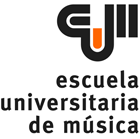
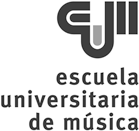
modified:   compilar_web.sh 	modified:   images/eum.png 	modified:   images/fing.png 	new file:   images/gpa.png 	new file:   images/header1.jpg 	new file:   images/header2.jpg 	new file:   images/header3.jpg 	new file:   images/header4.jpg 	new file:   images/header5.jpg 	new file:   images/header6

diff --git a/src/footer.html b/src/footer.html
@@ -5,12 +5,16 @@
 		<ul>
 			<li>
 				<center>
-				<table cellspacing="0" cellpadding="2" width="263" border="0"> <tbody> 
+				<table cellspacing="0" cellpadding="2" width="200" border="0" align="center"> <tbody> 
 				<tr>
+		<!--
 				<td valign="middle" width="70"> <a href="http://iie.fing.edu.uy" target="blank"><img src="images/iie.png" alt="Instituto de Ingeniería Eléctrica" width="70"/></a></td>
-				<td valign="middle" width="50"> <a href="http://www.fing.edu.uy" target="blank"><img src="images/fing.png" alt="Facultad de Ingeniería" width="50"/></a></td>
-				<td valign="middle" width="65"> <a href="http://www.eumus.edu.uy/" target="blank"><img src="images/eum.png" alt="Escuela Universitaria de Música" width="50"/></a></td>
+		-->
+				<td valign="middle" width="80"> <a href="http://www.fing.edu.uy" target="blank"><img src="images/fing.png" alt="Facultad de Ingeniería" width="80"/></a></td>
+				<td valign="middle" width="80"> <a href="http://www.eumus.edu.uy/" target="blank"><img src="images/eum.png" alt="Escuela Universitaria de Música" width="80"/></a></td>
+		<!--
 				<td valign="middle" width="46"> <a href="http://www.universidad.edu.uy/" target="blank"><img src="images/udelar.png" alt="Universidad de la República" width="46"/></a></td>
+		-->
 				</tr>
 				</tbody></table>
 				</center>
@@ -34,7 +38,7 @@
 </div>
 <!-- end page -->
 <div id="footer">
-	<p class="legal">Copyright (c) 2007 Website Name. All rights reserved.</p>
+	<p class="legal">Copyright (c) 2011 Audio Processing Group (FING|EUM). All rights reserved.</p>
 	<p class="credit">Designed by <a href="http://www.nodethirtythree.com/">NodeThirtyThree</a> + <a href="http://www.freecsstemplates.org/">Free CSS Templates</a></p><br>
 	<p class="credit">Free JavaScripts provided by <a href="http://javascriptsource.com">The JavaScript Source</a></p>
 </div>

diff --git a/src/header.html b/src/header.html
@@ -65,16 +65,28 @@ Released   : 20071108
 </head>
 <body>
 <div id="logo">
-	<h1><a href="#">gpa:: grupo de procesamiento de audio</a></h1>
-	<h2>última actualización: <script type="text/javascript">document.write(new Date(document.lastModified).toLocaleString())</script></h2>
+<!--
+	<h1><a href="index.html">gpa:: grupo de procesamiento de audio</a></h1>
+-->
+	<!-- <h2>última actualización: <script type="text/javascript">document.write(new Date(document.lastModified).toLocaleString())</script></h2> -->
+<!--	
+	<h2> (logo udelar) </h2>
+-->
+	<table cellspacing="0" cellpadding="2" width="870" border="0" align="center"> <tbody> 
+		<tr>
+		<td align="left" valign="middle" width="373"> <a href="index.html" target="blank"><img src="images/gpa.png" alt="Grupo de Procesamiento de Audio" width="373"/></a></td>
+		<td align="right" valign="right" width="226"> <a href="http://www.universidad.edu.uy" target="blank"><img src="images/udelar_gray.png" alt="Universidad de la República" width="226"/></a></td>
+		</tr>
+	</tbody></table>
+
 </div>
 <div id="menu">
 	<ul>
 		<li class="first"><a href="index.html" accesskey="1" title="">Inicio</a></li>
 		<li><a href="integrantes.html" accesskey="2" title="">Integrantes</a></li>
 		<li><a href="investigacion.html" accesskey="3" title="">Investigación</a></li>
+		<li><a href="publicaciones.html" accesskey="3" title="">Publicaciones</a></li>
 		<li><a href="blog.html" accesskey="4" title="">Blog</a></li>
-		<li><a href="links.html" accesskey="5" title="">Links</a></li>
 		<li><a href="contacto.html" accesskey="6" title="">Contacto</a></li>
 	</ul>
 	<div id="search">

diff --git a/style.css b/style.css
@@ -7,7 +7,7 @@ Released for free under a Creative Commons Attribution 2.5 License
 
 * {
 	margin: 0;
-	padding: 0;
+	padding: 0px;
 }
 
 body {
@@ -38,7 +38,8 @@ h1, h1 a, h2, h2 a {
 }
 
 h1 a:hover, h2 a:hover {
-	text-decoration: underline;
+	/*text-decoration: underline;*/
+	text-decoration: none;
 }
 
 h1 {
@@ -70,7 +71,10 @@ blockquote {
 }
 
 a {
-	color: #346086;
+	/*color: #346086;*/
+	color: #6E6E6E;
+	text-decoration: none;
+	font-weight: bold;
 }
 
 a:hover {
@@ -99,8 +103,9 @@ hr {
 
 #logo {
 	width: 870px;
-	height: 135px;
+	height: 90px;
 	margin: 0 auto;
+	padding-top: 10px;
 }
 
 #logo h1, #logo h2 {
@@ -109,13 +114,13 @@ hr {
 
 #logo h1 {
 	float: left;
-	padding-top: 80px;
+	padding-top: 10px;
 	font-size: 30px;
 }
 
 #logo h2 {
 	float: right;
-	padding-top: 95px;
+	padding-top: 15px;
 	font-size: 12px;
 	font-weight: normal;
 }
@@ -200,7 +205,7 @@ hr {
 #page {
 	width: 900px;
 	margin: 0 auto;
-	padding: 45px 35px 45px 25px;
+	padding: 20px 35px 45px 25px;
 	background: url(images/img05.gif) no-repeat;
 }
 

diff --git a/src/blog.html b/src/blog.html
@@ -1,4 +1,4 @@
-<h1 class="title">Blog</h1>
+<h1 class="title">Blog de novedades</h1>
 
 <div class="post">
 	<h2 class="title">Entrada #1</h2>

diff --git a/src/publicaciones.html b/src/publicaciones.html
@@ -1,0 +1,1 @@
+<h1 class="title">Publicaciones</h1>
